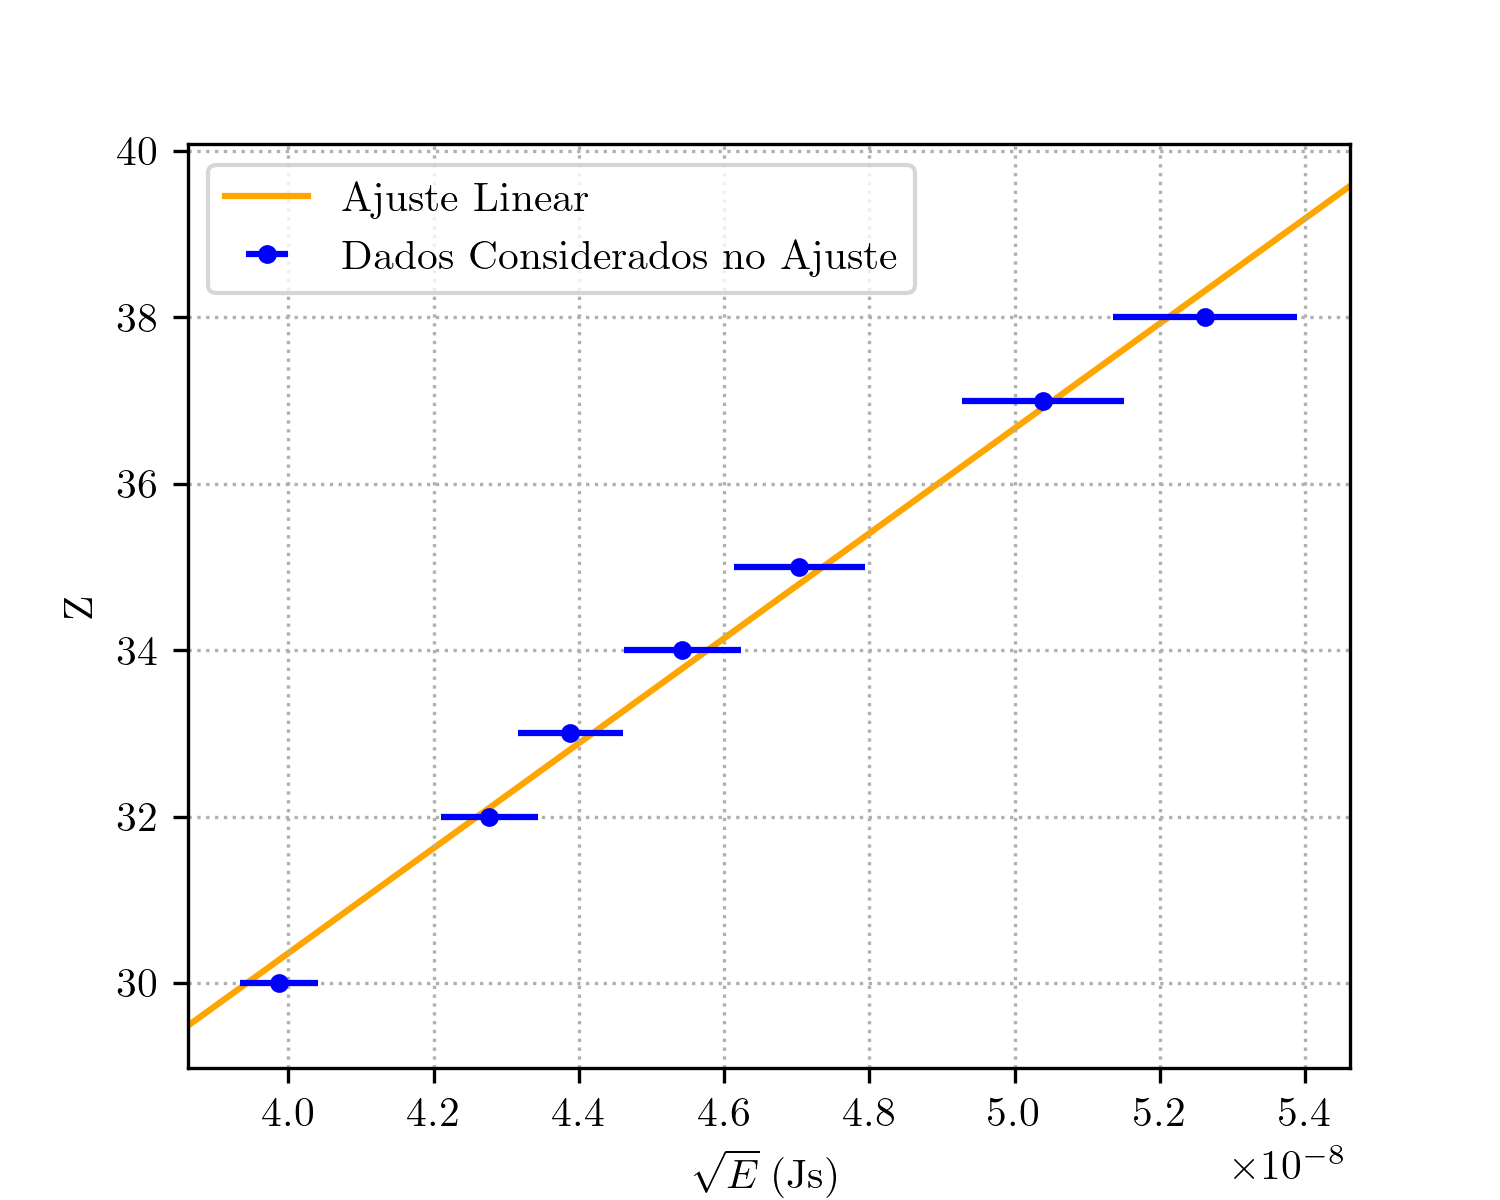
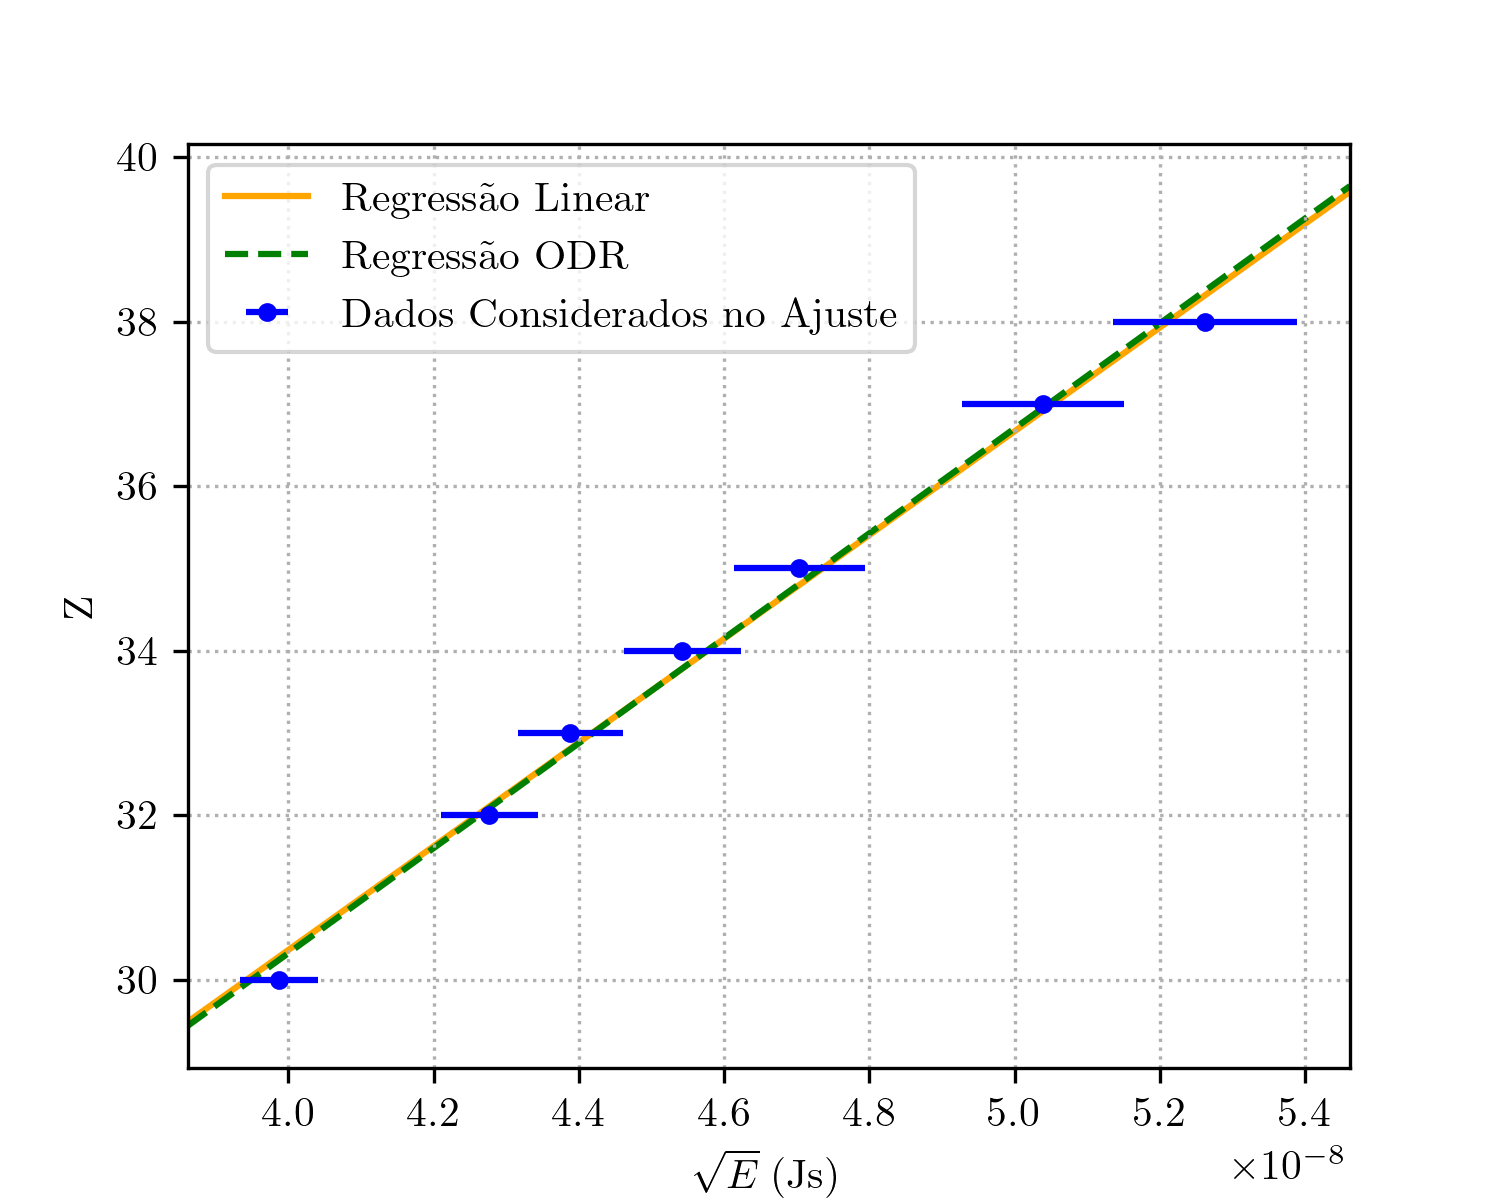
Including ODR regression to Moseley Law plot

diff --git a/moseley.py b/moseley.py
@@ -3,8 +3,10 @@ import pandas as pd
 import numpy as np
 import matplotlib.pyplot as plt
 from scipy.ndimage import gaussian_filter1d
+from scipy.odr.odrpack import Output
 from scipy.stats import linregress
 from scipy.interpolate import UnivariateSpline
+import scipy.odr as odr
 
 LIGHT_SPEED = 299792458
 CRYSTAL = 201.4e-12
@@ -205,6 +207,11 @@ for column in result_df.columns:
 result_df.to_csv("results/k_abs_edges.csv", decimal=",", index=None)
 
 # Linear regression of the data
+slopes = []
+slopes_stderr = []
+intercepts = []
+intercepts_stderr = []
+
 reg = linregress(sqrt_energies_js, zs)
 
 slope = reg.slope
@@ -212,22 +219,48 @@ slope_stderr = reg.stderr
 intercept = reg.intercept
 intercept_stderr = reg.intercept_stderr
 rvalue = reg.rvalue
+
+slopes.append(slope)
+slopes_stderr.append(slope_stderr)
+intercepts.append(intercept)
+intercepts_stderr.append(intercept_stderr)
+
+# Orthogonal distance regression of the data
+linear_model = odr.Model(lambda params, x: params[0] * x + params[1])
+data = odr.RealData(sqrt_energies_js, zs, sx=sqrt_energies_js_stderr)
+odr_reg = odr.ODR(data, linear_model, beta0=[slope, intercept])
+result = odr_reg.run()
+
+slope_odr = result.beta[0]
+intercept_odr = result.beta[1]
+
+slopes.append(slope_odr)
+slopes_stderr.append(result.sd_beta[0])
+intercepts.append(intercept_odr)
+intercepts_stderr.append(result.sd_beta[1])
+
 expected_slope = 1 / np.sqrt(RYDBERG * PLANCK_JS)
 
 # df with the regression results to export as csv
 reg_df = pd.DataFrame(
-    [[slope, slope_stderr, expected_slope, intercept, intercept_stderr, rvalue]],
-    columns=(
+    [
+        slopes,
+        slopes_stderr,
+        [expected_slope, expected_slope],
+        intercepts,
+        intercepts_stderr,
+    ],
+    index=(
         "slope",
         "slope_stderr",
         "expected_slope",
         "intercept",
         "intercept_stderr",
-        "rvalue",
     ),
+    columns=("regression", "odr_regression"),
 )
 
-reg_df.to_csv("results/moseley_reg_result.csv", decimal=",", index=None)
+reg_df.transpose().to_csv("results/moseley_reg_result.csv", decimal=",")
 
 fig_moseley, ax_moseley = plt.subplots(figsize=(5, 4))
 
@@ -247,7 +280,21 @@ xlim = xmin, xmax = ax_moseley.get_xlim()
 x = np.linspace(xmin, xmax)
 
 ax_moseley.plot(
-    x, slope * x + intercept, color="orange", label="Ajuste Linear", zorder=-1
+    x,
+    slope * x + intercept,
+    "-",
+    color="orange",
+    label="Regressão Linear",
+    zorder=-1,
+)
+
+ax_moseley.plot(
+    x,
+    slope_odr * x + intercept_odr,
+    "--",
+    color="green",
+    label="Regressão ODR",
+    zorder=-1,
 )
 
 ax_moseley.set(xlim=xlim)
